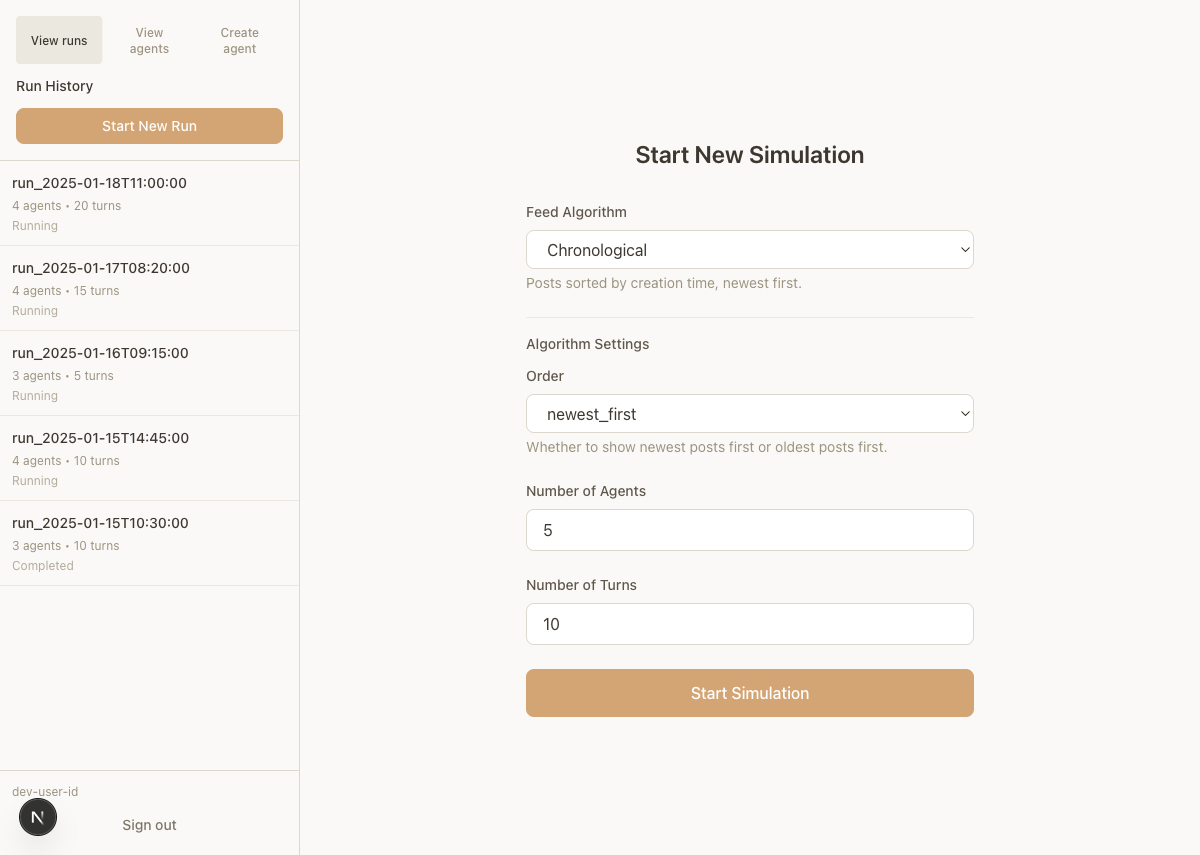
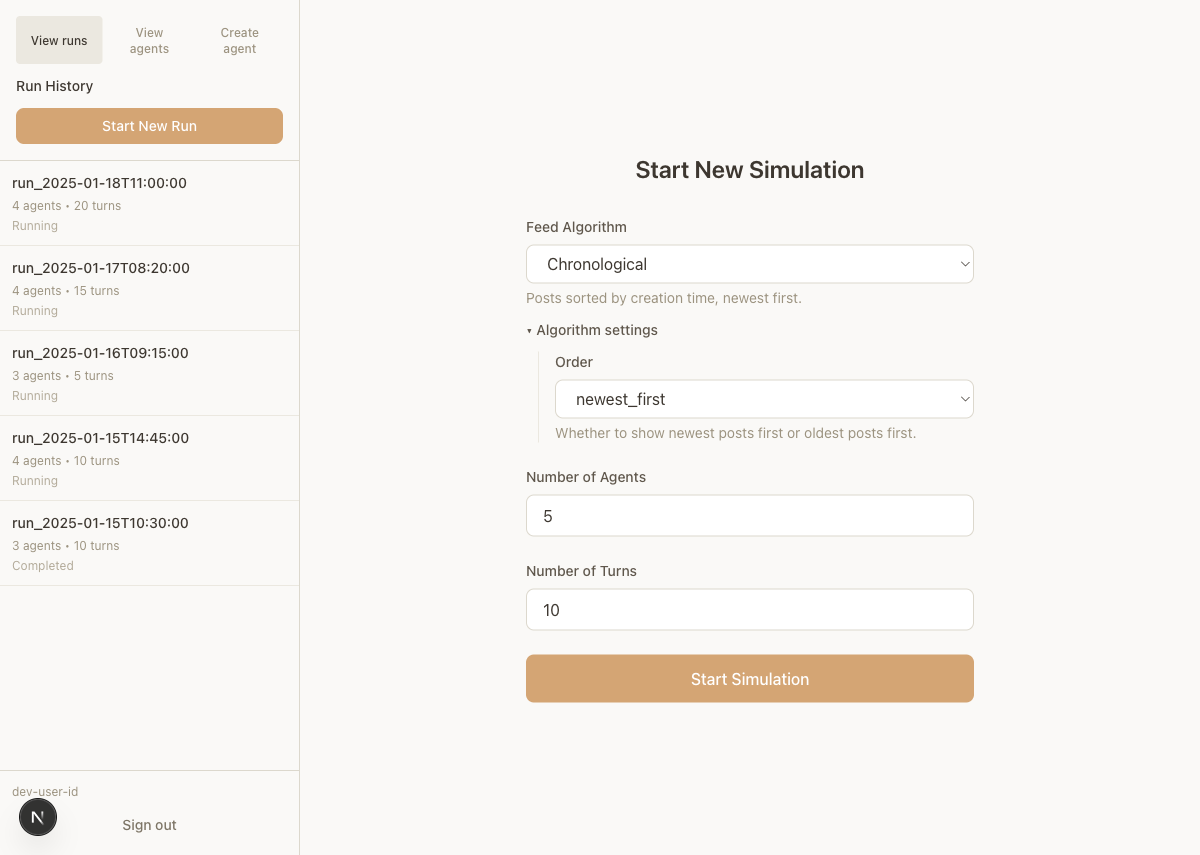
Make algorithm settings collapsible

Changed region(s): [[0.4317, 0.2433, 0.8325, 0.8515], [0.5242, 0.152, 0.74, 0.2129]]

diff --git a/ui/components/form/ConfigForm.tsx b/ui/components/form/ConfigForm.tsx
@@ -190,6 +190,7 @@ export default function ConfigForm({ onSubmit, defaultConfig }: ConfigFormProps)
   const [numTurns, setNumTurns] = useState(defaultConfig.numTurns);
   const [feedAlgorithm, setFeedAlgorithm] = useState<string>(defaultConfig.feedAlgorithm);
   const [submitAttempted, setSubmitAttempted] = useState(false);
+  const [showAlgorithmSettings, setShowAlgorithmSettings] = useState(false);
   const [feedAlgorithmConfigByAlgId, setFeedAlgorithmConfigByAlgId] = useState<
     Record<string, JsonObject>
   >(() => (defaultConfig.feedAlgorithmConfig ? { [defaultConfig.feedAlgorithm]: defaultConfig.feedAlgorithmConfig } : {}));
@@ -230,11 +231,15 @@ export default function ConfigForm({ onSubmit, defaultConfig }: ConfigFormProps)
     () => normalizeConfigSchema(selectedAlg?.configSchema ?? null),
     [selectedAlg?.configSchema],
   );
-  const schemaFields = normalizedSchema?.fields ?? [];
+  const schemaFields = useMemo(() => normalizedSchema?.fields ?? [], [normalizedSchema]);
   const configErrors = useMemo(
     () => validateConfig(schemaFields, feedAlgorithmConfig),
     [schemaFields, feedAlgorithmConfig],
   );
+
+  useEffect(() => {
+    setShowAlgorithmSettings(schemaFields.length > 0);
+  }, [schemaFields.length]);
 
   const handleSubmit = (event: React.FormEvent): void => {
     event.preventDefault();
@@ -323,149 +328,197 @@ export default function ConfigForm({ onSubmit, defaultConfig }: ConfigFormProps)
             {selectedAlg?.description && (
               <p className="mt-1 text-sm text-beige-600">{selectedAlg.description}</p>
             )}
-          </div>
 
-          {schemaFields.length > 0 && (
-            <div className="border-t border-beige-200 pt-4">
-              <h2 className="text-sm font-medium text-beige-800 mb-3">Algorithm Settings</h2>
-              <div className="space-y-4">
-                {schemaFields.map((field) => {
-                  const error = submitAttempted ? configErrors[field.key] : null;
-                  if (field.kind === 'unsupported') {
-                    return (
-                      <div key={field.key} className="text-sm text-beige-700">
-                        <div className="font-medium">{field.label}</div>
-                        {field.description && (
-                          <div className="text-beige-600">{field.description}</div>
-                        )}
-                        <div className="mt-1 text-xs text-red-600">
-                          Unsupported config field schema for &quot;{field.key}&quot;.
-                        </div>
-                        {error && <div className="mt-1 text-xs text-red-600">{error}</div>}
-                      </div>
-                    );
-                  }
+            {schemaFields.length > 0 && (
+              <div className="mt-3">
+                <div className="flex items-center justify-between">
+                  <button
+                    type="button"
+                    aria-expanded={showAlgorithmSettings}
+                    onClick={() => setShowAlgorithmSettings((v) => !v)}
+                    className="text-sm font-medium text-beige-800 hover:text-beige-900 transition-colors"
+                  >
+                    {showAlgorithmSettings ? '▾' : '▸'} Algorithm settings
+                  </button>
+                  {Object.keys(configErrors).length > 0 && (
+                    <span className="text-xs text-red-600">Fix required fields</span>
+                  )}
+                </div>
 
-                  if (field.kind === 'boolean') {
-                    const checked = Boolean(feedAlgorithmConfig[field.key]);
-                    return (
-                      <div key={field.key}>
-                        <label className="flex items-center gap-2 text-sm text-beige-800">
-                          <input
-                            type="checkbox"
-                            checked={checked}
-                            onChange={(e) => setConfigValue(field.key, e.currentTarget.checked)}
-                            className="h-4 w-4 accent-accent"
-                          />
-                          <span className="font-medium">{field.label}</span>
-                        </label>
-                        {field.description && (
-                          <p className="mt-1 text-sm text-beige-600">{field.description}</p>
-                        )}
-                        {error && <p className="mt-1 text-xs text-red-600">{error}</p>}
-                      </div>
-                    );
-                  }
+                {showAlgorithmSettings && (
+                  <div className="mt-3 ml-3 pl-4 border-l border-beige-200">
+                    <div className="space-y-4">
+                      {schemaFields.map((field) => {
+                        const error = submitAttempted ? configErrors[field.key] : null;
+                        if (field.kind === 'unsupported') {
+                          return (
+                            <div key={field.key} className="text-sm text-beige-700">
+                              <div className="font-medium">{field.label}</div>
+                              {field.description && (
+                                <div className="text-beige-600">{field.description}</div>
+                              )}
+                              <div className="mt-1 text-xs text-red-600">
+                                Unsupported config field schema for &quot;{field.key}&quot;.
+                              </div>
+                              {error && (
+                                <div className="mt-1 text-xs text-red-600">{error}</div>
+                              )}
+                            </div>
+                          );
+                        }
 
-                  if (field.kind === 'string_enum') {
-                    const value = typeof feedAlgorithmConfig[field.key] === 'string' ? (feedAlgorithmConfig[field.key] as string) : '';
-                    return (
-                      <div key={field.key}>
-                        <label className="block text-sm font-medium text-beige-800 mb-2">
-                          {field.label}
-                        </label>
-                        <select
-                          value={value}
-                          onChange={(e) =>
-                            setConfigValue(field.key, e.target.value ? e.target.value : undefined)
-                          }
-                          className="w-full px-4 py-2 border border-beige-300 rounded-lg bg-white text-beige-900 focus:outline-none focus:ring-2 focus:ring-accent focus:border-transparent"
-                        >
-                          <option value="">Select…</option>
-                          {(field.enumValues || []).map((opt) => (
-                            <option key={opt} value={opt}>
-                              {opt}
-                            </option>
-                          ))}
-                        </select>
-                        {field.description && (
-                          <p className="mt-1 text-sm text-beige-600">{field.description}</p>
-                        )}
-                        {error && <p className="mt-1 text-xs text-red-600">{error}</p>}
-                      </div>
-                    );
-                  }
+                        if (field.kind === 'boolean') {
+                          const checked = Boolean(feedAlgorithmConfig[field.key]);
+                          return (
+                            <div key={field.key}>
+                              <label className="flex items-center gap-2 text-sm text-beige-800">
+                                <input
+                                  type="checkbox"
+                                  checked={checked}
+                                  onChange={(e) =>
+                                    setConfigValue(field.key, e.currentTarget.checked)
+                                  }
+                                  className="h-4 w-4 accent-accent"
+                                />
+                                <span className="font-medium">{field.label}</span>
+                              </label>
+                              {field.description && (
+                                <p className="mt-1 text-sm text-beige-600">
+                                  {field.description}
+                                </p>
+                              )}
+                              {error && (
+                                <p className="mt-1 text-xs text-red-600">{error}</p>
+                              )}
+                            </div>
+                          );
+                        }
 
-                  if (field.kind === 'string') {
-                    const value = typeof feedAlgorithmConfig[field.key] === 'string' ? (feedAlgorithmConfig[field.key] as string) : '';
-                    return (
-                      <div key={field.key}>
-                        <label className="block text-sm font-medium text-beige-800 mb-2">
-                          {field.label}
-                        </label>
-                        <input
-                          type="text"
-                          value={value}
-                          onChange={(e) =>
-                            setConfigValue(field.key, e.currentTarget.value || undefined)
-                          }
-                          className="w-full px-4 py-2 border border-beige-300 rounded-lg bg-white text-beige-900 focus:outline-none focus:ring-2 focus:ring-accent focus:border-transparent"
-                        />
-                        {field.description && (
-                          <p className="mt-1 text-sm text-beige-600">{field.description}</p>
-                        )}
-                        {error && <p className="mt-1 text-xs text-red-600">{error}</p>}
-                      </div>
-                    );
-                  }
+                        if (field.kind === 'string_enum') {
+                          const value =
+                            typeof feedAlgorithmConfig[field.key] === 'string'
+                              ? (feedAlgorithmConfig[field.key] as string)
+                              : '';
+                          return (
+                            <div key={field.key}>
+                              <label className="block text-sm font-medium text-beige-800 mb-2">
+                                {field.label}
+                              </label>
+                              <select
+                                value={value}
+                                onChange={(e) =>
+                                  setConfigValue(
+                                    field.key,
+                                    e.target.value ? e.target.value : undefined,
+                                  )
+                                }
+                                className="w-full px-4 py-2 border border-beige-300 rounded-lg bg-white text-beige-900 focus:outline-none focus:ring-2 focus:ring-accent focus:border-transparent"
+                              >
+                                <option value="">Select…</option>
+                                {(field.enumValues || []).map((opt) => (
+                                  <option key={opt} value={opt}>
+                                    {opt}
+                                  </option>
+                                ))}
+                              </select>
+                              {field.description && (
+                                <p className="mt-1 text-sm text-beige-600">
+                                  {field.description}
+                                </p>
+                              )}
+                              {error && (
+                                <p className="mt-1 text-xs text-red-600">{error}</p>
+                              )}
+                            </div>
+                          );
+                        }
 
-                  if (field.kind === 'integer' || field.kind === 'number') {
-                    const rawValue = feedAlgorithmConfig[field.key];
-                    const value = typeof rawValue === 'number' ? String(rawValue) : '';
-                    const step = field.kind === 'integer' ? 1 : 'any';
-                    return (
-                      <div key={field.key}>
-                        <label className="block text-sm font-medium text-beige-800 mb-2">
-                          {field.label}
-                        </label>
-                        <input
-                          type="number"
-                          value={value}
-                          min={field.minimum}
-                          max={field.maximum}
-                          step={step}
-                          onChange={(e) => {
-                            const nextValue = Number(e.currentTarget.value);
-                            if (Number.isNaN(nextValue)) {
-                              setConfigValue(field.key, undefined);
-                              return;
-                            }
-                            setConfigValue(
-                              field.key,
-                              field.kind === 'integer' ? Math.trunc(nextValue) : nextValue,
-                            );
-                          }}
-                          className="w-full px-4 py-2 border border-beige-300 rounded-lg bg-white text-beige-900 focus:outline-none focus:ring-2 focus:ring-accent focus:border-transparent"
-                        />
-                        {field.description && (
-                          <p className="mt-1 text-sm text-beige-600">{field.description}</p>
-                        )}
-                        {error && <p className="mt-1 text-xs text-red-600">{error}</p>}
-                      </div>
-                    );
-                  }
+                        if (field.kind === 'string') {
+                          const value =
+                            typeof feedAlgorithmConfig[field.key] === 'string'
+                              ? (feedAlgorithmConfig[field.key] as string)
+                              : '';
+                          return (
+                            <div key={field.key}>
+                              <label className="block text-sm font-medium text-beige-800 mb-2">
+                                {field.label}
+                              </label>
+                              <input
+                                type="text"
+                                value={value}
+                                onChange={(e) =>
+                                  setConfigValue(field.key, e.currentTarget.value || undefined)
+                                }
+                                className="w-full px-4 py-2 border border-beige-300 rounded-lg bg-white text-beige-900 focus:outline-none focus:ring-2 focus:ring-accent focus:border-transparent"
+                              />
+                              {field.description && (
+                                <p className="mt-1 text-sm text-beige-600">
+                                  {field.description}
+                                </p>
+                              )}
+                              {error && (
+                                <p className="mt-1 text-xs text-red-600">{error}</p>
+                              )}
+                            </div>
+                          );
+                        }
 
-                  return null;
-                })}
+                        if (field.kind === 'integer' || field.kind === 'number') {
+                          const rawValue = feedAlgorithmConfig[field.key];
+                          const value = typeof rawValue === 'number' ? String(rawValue) : '';
+                          const step = field.kind === 'integer' ? 1 : 'any';
+                          return (
+                            <div key={field.key}>
+                              <label className="block text-sm font-medium text-beige-800 mb-2">
+                                {field.label}
+                              </label>
+                              <input
+                                type="number"
+                                value={value}
+                                min={field.minimum}
+                                max={field.maximum}
+                                step={step}
+                                onChange={(e) => {
+                                  const nextValue = Number(e.currentTarget.value);
+                                  if (Number.isNaN(nextValue)) {
+                                    setConfigValue(field.key, undefined);
+                                    return;
+                                  }
+                                  setConfigValue(
+                                    field.key,
+                                    field.kind === 'integer'
+                                      ? Math.trunc(nextValue)
+                                      : nextValue,
+                                  );
+                                }}
+                                className="w-full px-4 py-2 border border-beige-300 rounded-lg bg-white text-beige-900 focus:outline-none focus:ring-2 focus:ring-accent focus:border-transparent"
+                              />
+                              {field.description && (
+                                <p className="mt-1 text-sm text-beige-600">
+                                  {field.description}
+                                </p>
+                              )}
+                              {error && (
+                                <p className="mt-1 text-xs text-red-600">{error}</p>
+                              )}
+                            </div>
+                          );
+                        }
+
+                        return null;
+                      })}
+                    </div>
+
+                    {Object.keys(configErrors).length > 0 && (
+                      <p className="mt-3 text-xs text-red-600">
+                        Fix the highlighted algorithm settings to start the simulation.
+                      </p>
+                    )}
+                  </div>
+                )}
               </div>
-
-              {Object.keys(configErrors).length > 0 && (
-                <p className="mt-3 text-xs text-red-600">
-                  Fix the highlighted algorithm settings to start the simulation.
-                </p>
-              )}
-            </div>
-          )}
+            )}
+          </div>
 
           <div>
             <label
